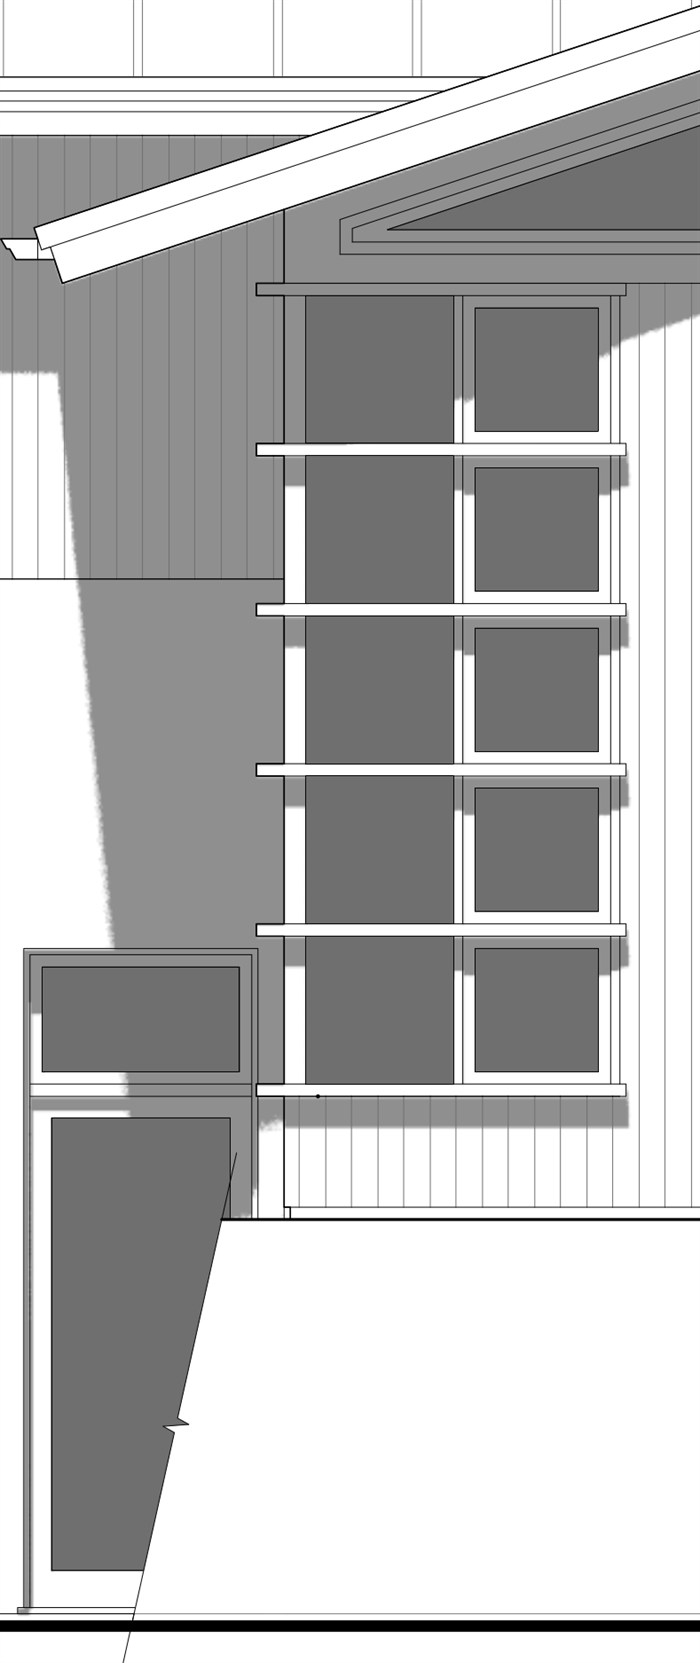
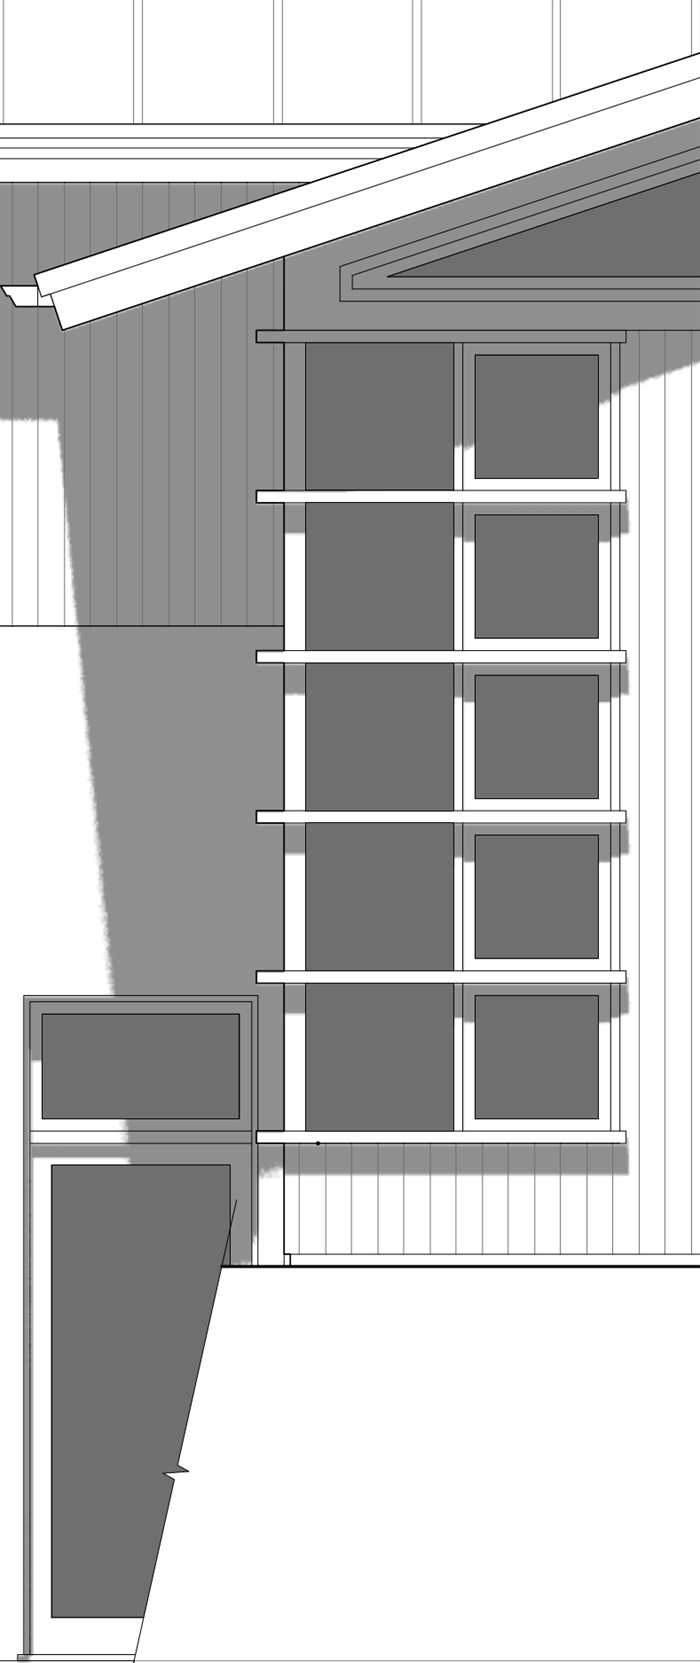
Hummingbird: strip crop raised so the ground line sits just out of frame

Changed region(s): [[0.0, 0.0, 1.0, 1.0]]

diff --git a/project.html b/project.html
@@ -29,7 +29,7 @@
   <link rel="icon" href="assets/img/favicon.svg" type="image/svg+xml">
   <link rel="icon" href="assets/img/favicon-32.png" sizes="32x32" type="image/png">
   <link rel="apple-touch-icon" href="assets/img/apple-touch-icon.png">
-  <link rel="stylesheet" href="css/style.css?v=88">
+  <link rel="stylesheet" href="css/style.css?v=89">
 </head>
 <body data-page="project">
 
@@ -52,7 +52,7 @@
     <article class="project" id="project"></article>
   </main>
 
-  <script src="js/projects.js?v=88"></script>
-  <script src="js/main.js?v=88"></script>
+  <script src="js/projects.js?v=89"></script>
+  <script src="js/main.js?v=89"></script>
 </body>
 </html>

diff --git a/index.html b/index.html
@@ -34,7 +34,7 @@
   <link rel="preconnect" href="https://fonts.googleapis.com">
   <link rel="preconnect" href="https://fonts.gstatic.com" crossorigin>
   <link rel="stylesheet" href="https://fonts.googleapis.com/css2?family=Inter:wght@400;700&display=swap">
-  <link rel="stylesheet" href="css/style.css?v=88">
+  <link rel="stylesheet" href="css/style.css?v=89">
 </head>
 <body data-page="index">
 
@@ -161,7 +161,7 @@
     </div>
   </main>
 
-  <script src="js/projects.js?v=88"></script>
-  <script src="js/main.js?v=88"></script>
+  <script src="js/projects.js?v=89"></script>
+  <script src="js/main.js?v=89"></script>
 </body>
 </html>

diff --git a/js/projects.js b/js/projects.js
@@ -73,7 +73,7 @@
 */
 
 // Bump whenever an image file is replaced under the same name, so browsers fetch the new one
-const IMAGE_VERSION = 33;
+const IMAGE_VERSION = 34;
 
 const CATEGORIES = [
   { id: "academic", label: "Academic", prefix: "A" },
